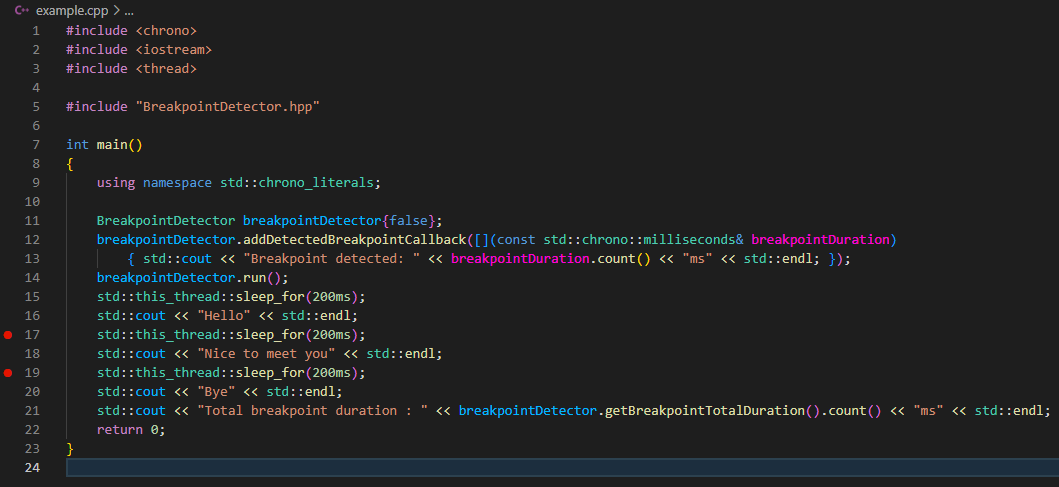
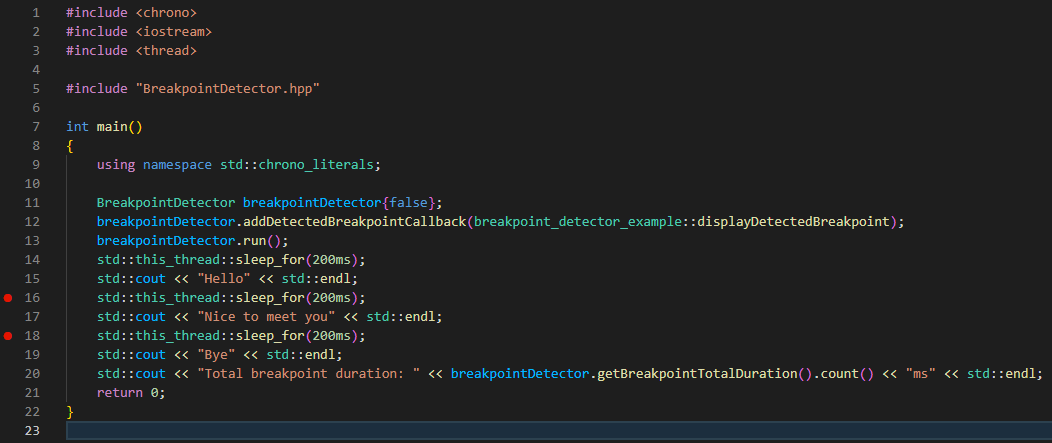
split implementation

diff --git a/BreakpointDetector.hpp b/BreakpointDetector.hpp
@@ -9,63 +9,99 @@
 
 using DetectedBreakpointCallback = std::function<void(const std::chrono::milliseconds& breakpointDuration)>;
 
+namespace breakpoint_detector_example
+{
+	// example of detected breakpoint callback that displays the duration of the detected breakpoint
+	static void displayDetectedBreakpoint(const std::chrono::milliseconds& breakpointDuration);
+} // namespace breakpoint_detector_example
+
 class BreakpointDetector
 {
 public:
 	// true for bRun in order to start the breakpoint detection at construction
-	BreakpointDetector(bool bRun)
-	{
-		if (bRun) run();
-	}
+	BreakpointDetector(bool bRun);
 
 	// can be called at any time, ideally in the main function
-	void addDetectedBreakpointCallback(DetectedBreakpointCallback detectedBreakpointCallback)
-	{
-		detectedBreakpointCallbackList.push_back(detectedBreakpointCallback);
-	}
-
+	void addDetectedBreakpointCallback(DetectedBreakpointCallback detectedBreakpointCallback);
 	// should be called one time, ideally in the main function
-	template <class _Rep, class _Period> void run(const std::chrono::duration<_Rep, _Period>& breakpointDetectionDuration)
-	{
-		run(std::chrono::duration_cast<std::chrono::nanoseconds>(breakpointDetectionDuration));
-	}
+	template <class _Rep, class _Period> void run(const std::chrono::duration<_Rep, _Period>& breakpointDetectionDuration);
 
 	// should be called one time, ideally in the main function
 	template <class _Rep1, class _Period1, class _Rep2, class _Period2>
 	void run(const std::chrono::duration<_Rep1, _Period1>& breakpointDetectionDuration,
-		const std::chrono::duration<_Rep2, _Period2>& checkDuration)
-	{
-		run(std::chrono::duration_cast<std::chrono::nanoseconds>(breakpointDetectionDuration),
-			std::chrono::duration_cast<std::chrono::nanoseconds>(checkDuration));
-	}
+		const std::chrono::duration<_Rep2, _Period2>& checkDuration);
 
 	// should be called one time, ideally in the main function
 	void run(const std::chrono::nanoseconds& breakpointDetectionDuration = std::chrono::nanoseconds(100'000'000), // 100ms
-		const std::chrono::nanoseconds& checkDuration = std::chrono::nanoseconds(16'000'000))					  // 16ms
-	{
-		std::thread t(
-			[&]()
-			{
-				while (true)
-				{
-					auto begin = std::chrono::high_resolution_clock::now();
-					std::this_thread::sleep_for(checkDuration);
-					auto diff = std::chrono::duration_cast<std::chrono::milliseconds>(
-						std::chrono::high_resolution_clock::now() - begin - checkDuration);
-					if (diff > breakpointDetectionDuration)
-					{
-						breakpointTotalDurationMs += diff;
-						for (const auto& detectedBreakpointCallback : detectedBreakpointCallbackList)
-							detectedBreakpointCallback(diff);
-					}
-				}
-			});
-		t.detach();
-	}
+		const std::chrono::nanoseconds& checkDuration = std::chrono::nanoseconds(16'000'000));					  // 16ms
 
-	std::chrono::milliseconds getBreakpointTotalDuration() const { return breakpointTotalDurationMs; }
+	// sum of all breakpoint detected
+	std::chrono::milliseconds getBreakpointTotalDuration() const;
 
 private:
 	std::vector<DetectedBreakpointCallback> detectedBreakpointCallbackList;
 	std::chrono::milliseconds breakpointTotalDurationMs;
 };
+
+// ============================================================
+// ============================================================
+// ===================== Implementations  =====================
+// ============================================================
+// ============================================================
+
+namespace breakpoint_detector_example
+{
+	static void displayDetectedBreakpoint(const std::chrono::milliseconds& breakpointDuration)
+	{
+		std::cout << "Breakpoint detected: " << breakpointDuration.count() << "ms" << std::endl;
+	}
+} // namespace breakpoint_detector_example
+
+BreakpointDetector::BreakpointDetector(bool bRun)
+{
+	if (bRun) run();
+}
+
+void BreakpointDetector::addDetectedBreakpointCallback(DetectedBreakpointCallback detectedBreakpointCallback)
+{
+	detectedBreakpointCallbackList.push_back(detectedBreakpointCallback);
+}
+
+template <class _Rep, class _Period>
+void BreakpointDetector::run(const std::chrono::duration<_Rep, _Period>& breakpointDetectionDuration)
+{
+	run(std::chrono::duration_cast<std::chrono::nanoseconds>(breakpointDetectionDuration));
+}
+
+template <class _Rep1, class _Period1, class _Rep2, class _Period2>
+void BreakpointDetector::run(const std::chrono::duration<_Rep1, _Period1>& breakpointDetectionDuration,
+	const std::chrono::duration<_Rep2, _Period2>& checkDuration)
+{
+	run(std::chrono::duration_cast<std::chrono::nanoseconds>(breakpointDetectionDuration),
+		std::chrono::duration_cast<std::chrono::nanoseconds>(checkDuration));
+}
+
+void BreakpointDetector::run(
+	const std::chrono::nanoseconds& breakpointDetectionDuration, const std::chrono::nanoseconds& checkDuration)
+{
+	std::thread t(
+		[&]()
+		{
+			while (true)
+			{
+				auto begin = std::chrono::high_resolution_clock::now();
+				std::this_thread::sleep_for(checkDuration);
+				auto diff = std::chrono::duration_cast<std::chrono::milliseconds>(
+					std::chrono::high_resolution_clock::now() - begin - checkDuration);
+				if (diff > breakpointDetectionDuration)
+				{
+					breakpointTotalDurationMs += diff;
+					for (const auto& detectedBreakpointCallback : detectedBreakpointCallbackList)
+						detectedBreakpointCallback(diff);
+				}
+			}
+		});
+	t.detach();
+}
+
+std::chrono::milliseconds BreakpointDetector::getBreakpointTotalDuration() const { return breakpointTotalDurationMs; }

diff --git a/example.cpp b/example.cpp
@@ -9,8 +9,7 @@ int main()
 	using namespace std::chrono_literals;
 
 	BreakpointDetector breakpointDetector{false};
-	breakpointDetector.addDetectedBreakpointCallback([](const std::chrono::milliseconds& breakpointDuration)
-		{ std::cout << "Breakpoint detected: " << breakpointDuration.count() << "ms" << std::endl; });
+	breakpointDetector.addDetectedBreakpointCallback(breakpoint_detector_example::displayDetectedBreakpoint);
 	breakpointDetector.run();
 	std::this_thread::sleep_for(200ms);
 	std::cout << "Hello" << std::endl;
@@ -18,6 +17,6 @@ int main()
 	std::cout << "Nice to meet you" << std::endl;
 	std::this_thread::sleep_for(200ms);
 	std::cout << "Bye" << std::endl;
-	std::cout << "Total breakpoint duration : " << breakpointDetector.getBreakpointTotalDuration().count() << "ms" << std::endl;
+	std::cout << "Total breakpoint duration: " << breakpointDetector.getBreakpointTotalDuration().count() << "ms" << std::endl;
 	return 0;
 }

diff --git a/README.md b/README.md
@@ -28,17 +28,20 @@ Total breakpoint duration : 4696ms
 # Usage
 
 ```cpp
-using DetectedBreakpointCallback = std::function<void(const std::chrono::milliseconds& breakpointDuration)>;
+namespace breakpoint_detector_example
+{
+	// example of detected breakpoint callback that displays the duration of the detected breakpoint
+	static void displayDetectedBreakpoint(const std::chrono::milliseconds& breakpointDuration);
+} // namespace breakpoint_detector_example
 
 class BreakpointDetector
 {
 public:
 	// true for bRun in order to start the breakpoint detection at construction
-	BreakpointDetector(bool bRun = true);
+	BreakpointDetector(bool bRun);
 
 	// can be called at any time, ideally in the main function
 	void addDetectedBreakpointCallback(DetectedBreakpointCallback detectedBreakpointCallback);
-
 	// should be called one time, ideally in the main function
 	template <class _Rep, class _Period> void run(const std::chrono::duration<_Rep, _Period>& breakpointDetectionDuration);
 
@@ -51,9 +54,9 @@ public:
 	void run(const std::chrono::nanoseconds& breakpointDetectionDuration = std::chrono::nanoseconds(100'000'000), // 100ms
 		const std::chrono::nanoseconds& checkDuration = std::chrono::nanoseconds(16'000'000));					  // 16ms
 
+	// sum of all breakpoint detected
 	std::chrono::milliseconds getBreakpointTotalDuration() const;
 };
-
 ```
 
 # Licence
